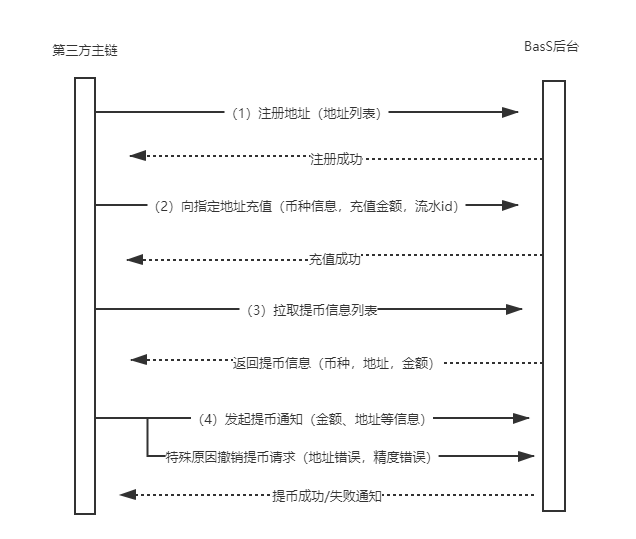
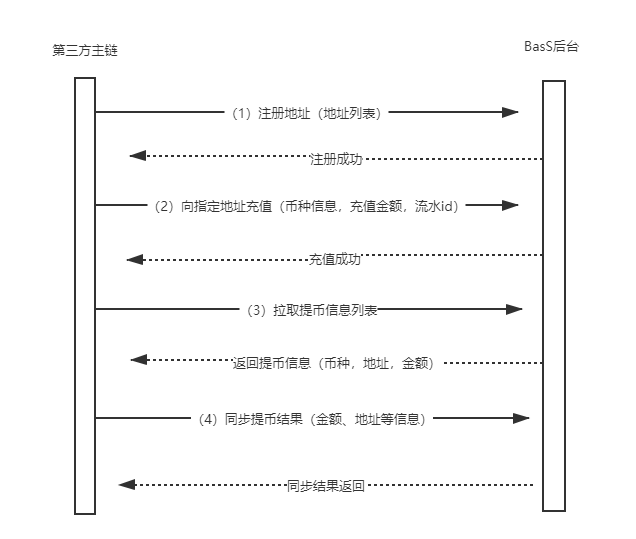
1.调整流程图和过程描述

diff --git a/source/API-WAPI/api_tsolution.rst b/source/API-WAPI/api_tsolution.rst
@@ -11,12 +11,21 @@
 
 3、用户提币
 
+整体交互流程如下
+-------------------
+
+
+.. image:: images/wapi_interact_process.png
+   :width: 600px
+   :align: center
+
+
 1.获取充币地址
 -------------------
 
-1）向baas平台传递币种名称和地址列表，响应成功后及代表注册地址成功
+1）可通过币种名称查询可用地址数量（推送地址时有数量限制）
 
-2）可通过币种名称查询可用地址数量
+2）向baas平台传递币种名称和地址列表，响应成功后及代表注册地址成功
 
 注：若注册币种的类型为memo类型，则同一个地址只允许注册一次。
 
@@ -25,7 +34,7 @@
 2.用户充币
 -------------------
 
-1）主链监测到地址有充币交易
+1）第三方钱包监测到地址有充币交易
 
 2）发起充值通知，通知BaaS系统
 
@@ -36,23 +45,14 @@
 3.用户提币
 -------------------
 
-1）用户在交易系统发起提币
+1）用户在三方钱包系统发起提币请求，获取提币信息列表
 
-2）主链监测到提币请求，请求BaaS系统接口
+2）主链开发者处理提币，并通知BaaS接口
 
-3）BaaS返回提币结果
+3）BaaS返回提币通知结果
 
-4）如遇特殊情况可撤销提币
+注：如遇特殊情况可以撤销提币请求，向BaaS接口推送通知
 
-5）返回撤销结果
-
-整体交互流程如下
--------------------
-
-
-.. image:: images/wapi_interact_process.png
-   :width: 600px
-   :align: center
 
 
 
